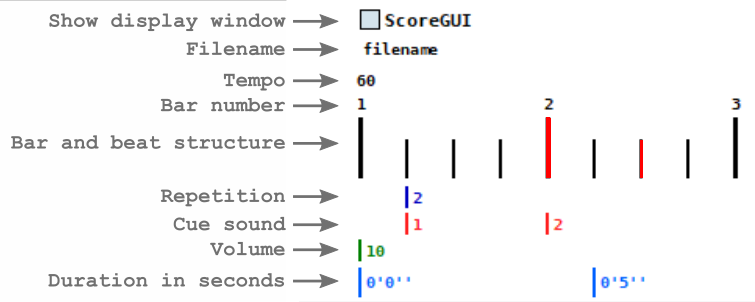
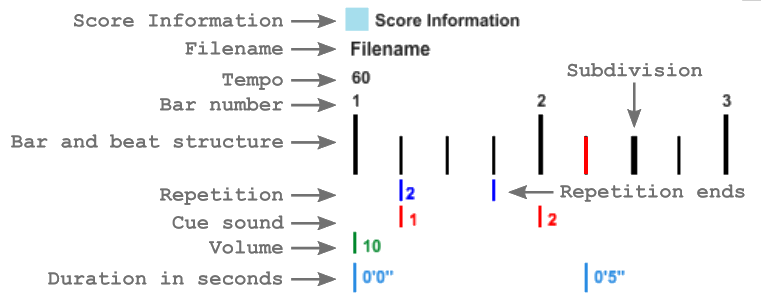
2.4

diff --git a/index.html b/index.html
@@ -34,6 +34,7 @@
           <!--<a class="buttons" href="#repository">Score repository</a><br>-->
           <a class="buttons" href="#license">License</a><br>
           <a class="buttons" href="#tutorial">Tutorial</a><br>
+          <a class="buttons" href="#display">Score Structure Display</a><br>
 		  <a class="buttons" href="#midiexport">Midi Export</a><br>
 		  <a class="buttons" href="#feature">Feature List</a><br>
 		  <a class="buttons" href="#afeature">Advanced Features</a><br>
@@ -70,7 +71,7 @@ An invoice can be written for donations.</p>
 <li>Version 1.8 &ndash; <a href="http://jeffreygavett.com/" target="_blank">Jeff Gavett</a></li>
 <li>Version 2.1 &ndash; <a href="http://asamisimasa.com/" target="_blank">Ensemble asamisimasa</a></li>
 <li>Version 2.2 &ndash; <a href="http://www.stefanprins.be/" target="_blank">Stefan Prins</a></li>
-<li>Version 2.3 &ndash; <a href="https://www.quatuorbozzini.ca/" target="_blank">Quatuor Bozzini</a></li>
+<li>Version 2.4 &ndash; <a href="https://www.quatuorbozzini.ca/" target="_blank">Quatuor Bozzini</a></li>
 </ul>
 
 
@@ -82,17 +83,18 @@ Check the <a href="http://jmmmp.github.io/clicktracker/index-mob.html" target="_
 
 <h3>Click Tracker Desktop Application</h3>
 <p>Use this version in your computer if you don't want to install any extra software, such as Pure Data or Max/MSP.<br>
-You can download it for <a href="https://www.dropbox.com/s/fro9nik0g8p1wlj/Click-Tracker-v2.3-Win.zip?dl=1">Windows</a> or <a href="http://bit.ly/ClickTracker2-3Apple">Apple.</a></p>
-To run the application, unpack the zip file and execute the file <strong>Click-Tracker</strong> file in the Click-Tracker folder. All files and folders must be kept together, or the program won't work correctly.<br>
+You can download it for <a href="https://bit.ly/ClickTracker2-4Win">Windows</a> or <a href="http://bit.ly/ClickTracker2-4Apple">Apple.</a></p>
+To run the application, unpack the zip file and execute the file <strong>Click-Tracker</strong> file in the Click-Tracker folder. To ensure the program works, don't use any spaces or special characters in your path.<br>
 <h4>Warning for Apple users</h4>
 Due to Apple's recent security settings, you'll need to allow the Pure Data and other externals to run on your system, as indicated in <a href="images/Mac-Auth-1.png" target="_blank">this</a>, and <a href="images/Mac-Auth-2.png" target="_blank">this</a> and <a href="images/mac-pd-accept.png" target="_blank">this</a> picture.<br>
 Additionaly, <u>M1 processors aren't supported yet</u> &ndash; you will have to run the program through Rosetta.
 
 <h3>Click Tracker Patch for Pure Data</h3>
-Use <a href="https://bit.ly/ClickTracker2-3">this version</a> if you want to run the Click Tracker on Pure Data (which can be downloaded from <a href="http://msp.ucsd.edu/software.html">here</a>).<br>
+Use <a href="https://bit.ly/ClickTracker2-4">this version</a> if you want to run the Click Tracker on Pure Data (which can be downloaded from <a href="http://msp.ucsd.edu/software.html">here</a>).<br>
+As with the Desktop version, Apple users with M1 processors will have to run Pure Data through Rosetta and allow the necessary security settings.
 
 <h3>Click Tracker Patch for Max/MSP</h3>
-Use this version if you want to run the Click Tracker on Max/MSP (from version 7) on <a href="https://www.dropbox.com/s/qqjv99qugpq85yb/Click-Tracker-v2.3-Max-Win.zip?dl=1">Windows</a> or <a href="https://www.dropbox.com/s/ghahrr9vmoar1ha/Click-Tracker-v2.3-Max-Mac.zip?dl=1">Apple</a> (see above for security settings in Apple hardware).<br>
+Use this version if you want to run the Click Tracker on Max/MSP (from version 7) on <a href="https://bit.ly/ClickTracker2-4MaxWin">Windows</a> or <a href="https://bit.ly/ClickTracker2-4MaxApple">Apple</a> (see above for security settings in Apple hardware).<br>
 <p>If you download any of the patch versions, see the <a href="#afeature">Advanced Features</a> section below on how to integrate it into your patches. The patch runs at a sampling rate of 44100Hz.</p>
 
 
@@ -175,7 +177,7 @@ In the same folder you can find other score excerpts by Stravinsky, Boulez, Stoc
 <h2>
 <a id="tutorial" class="anchor" href="#tutorial" aria-hidden="true"><span aria-hidden="true" class="octicon octicon-link"></span></a>Tutorial</h2>
 <p>This tutorial shows how to prepare a score for the Click Tracker patch, including all its features.<br>
-The Click Tracker reads documents in text format (.txt). They must be saved as text-only &ndash; in case you use Word or any other office software you should pay attention to this.<br>I suggest using a programme such as <a href="https://notepad-plus-plus.org/">Notepad++</a> for Windows or <a href="https://www.barebones.com/products/bbedit/">BBEdit</a> for Apple to edit your track files. See <a href="#syntax-high">below</a> for other resources for these programs.<br>
+The Click Tracker reads documents in text format (.txt). They must be saved as text-only &ndash; in case you use Word or any other office software you should pay attention to this.<br>I suggest using a programme such as <a href="https://notepad-plus-plus.org/">Notepad++</a> for Windows or <a href="https://en.wikipedia.org/wiki/SimpleText">SimpleText</a> for Apple to edit your track files. See <a href="#syntax-high">below</a> for other resources for these programs.<br>
 To reproduce a piece with the Click Tracker you must transcribe the score you want to hear to the format readable by this program &ndash; basically you must write down the metrical structure of the score.<br>
 The score below comes with the program, you can find it under <strong>examples/_score-tutorial.txt</strong>.</p>
 <center><img src="images/score-tutorial-v5a.png"></center>
@@ -357,12 +359,20 @@ vol 100
 1</code></pre>
 <center><img src="images/score-tutorial-8.png" width="573" height="103"></center>
 
+<h4>BAR NUMBER MUTE</h4>
+<p>If some bars are too fast to hear, the voice saying the numbers can be muted with the command "voice 0", or unmuted with "voice 1". Here is a new irregular bar back at MM60 with both commands, which means the bar number won't be heard:</p>
+<pre><code>t 60
+voice 0
+1 b
+1
+voice 1
+.5</code></pre>
+<center><img src="images/score-tutorial-8a.png" width="131" height="124"></center>
+
 <h4>REPETITIONS</h4>
 <p>Repetitions of the same bar can be used a lot in modern music. In case you want to repeat a fragment just use the command "rep x y" where x is the number of beats you want to repeat and y the number of times. Put this command just before the first beat of the passage to be repeated. Again &ndash; x MUST coincide with the actual sum of beats (you can't use 1 as a value for y). The number of the current repetition will be shown in the screen.<br>
-In case you use the "Go to bar" feature (more about that later) to start in the middle of a repetition sequence it won't work. For a repetition sequence to be correctly performed you must play the first note (since the command is before it).<br>
-Here is a new irregular bar back at MM60:</p>
-<pre><code>t 60
-1 b
+In case you use the "Go to bar" feature (more about that later) to start in the middle of a repetition sequence it won't work. For a repetition sequence to be correctly performed you must play the first note (since the command is before it).</p>
+<pre><code>1 b
 1
 .5</code></pre>
 <p>And now the same bar repeated 3 times:</p>
@@ -378,7 +388,7 @@ rep 2.5 4
 1 b
 1
 .5</code></pre>
-<center><img src="images/score-tutorial-9.png" width="493" height="82"></center>
+<center><img src="images/score-tutorial-9.png" width="474" height="67"></center>
 
 <h4>CUES</h4>
 <p>Cues (see below) can be added using the syntax "cue x" &ndash; where x is the cue number.</p>
@@ -410,45 +420,6 @@ As pickup bars aren't exactly repetitions and you must know exactly when the pie
 
 <h4>OTHER FIRST BAR NUMBER</h4>
 <p>With the comand "first x" you can define the number of the first bar to be played &ndash; in case your click track doesn't begin at bar 1.</p>
-
-<!-- <h4>SCORE STRUCTURE DISPLAY</h4>
-(Settings window)
-<p>In "Score" you can see a time-scaled structural display of the events in the opened file. These are arranged according to the following structure:
-<center><img src="images/score-legend.png" width="424" height="170"></center>
-The display is structured with the following functions:</p>
-<ul>
-<li>Show display window - controls display and show event data (see below)</li>
-<li>Filename - shows filename of opened score</li>
-<li>Tempo - Tempo of event (based on quarter note)</li>
-<li>Bar number</li>
-<li>Bar and beat structure:</li>
-<ul>
-<li>Long, thick lines indicate first beat in bar.</li>
-<li>Smaller lines indicate other beats. If thicker, it indicates a metric subdivision.</li>ADICIONAR SUBDIVISAO MÉTRICA À IMAGEM DA PARTITURA
-<li>Distance between lines indicates duration.</li>
-<li>Beats with fermatas are colored red.</li>
-</ul>
-<li>Repetition - shows repetition number</li>
-<li>Cue sound - shows cue sounds</li>
-<li>Volume</li>
-<li>Duration in seconds</li>
-</ul>
-<p>The <strong>display settings</strong> window can control the display settings of the score, and retrieve information on concrete events.</p>
-<center><img src="images/score-control.png" width="383" height="290"></center>
-<ul>
-<li>Show event info - switches more information on/off</li>
-<li>Show bar numbers - frequency of bar numbers</li>
-<li>Time grid labels - frequency of duration labels</li>
-</ul>
-<h5>Interaction</h5>
-The following interaction is possible:
-<ul>
-<li>By clicking on the graphical display of an event, it's information will be shown in the fields below (only in Pure Data)...</li>
-<li>... and it will also set the "go to bar" field to the bar number.</li>
-<li>xxx</li>
-</ul>
-- display of playback line
- -->
 
 <h4>BEAT COUNTING DIRECTION</h4>
 (Settings window)
@@ -549,6 +520,7 @@ In the <strong>Settings</strong> window:<br>
 <strong>fermata 0/1</strong> &ndash; Turns fermata playback on/off &ndash; E.g. fermata 1<br>
 <strong>pickup $1</strong> &ndash; pickup bar repeats the first bar $1 times (bar numbers decrease from $1+1 to 1) &ndash; E.g. pickup 2<br>
 <strong>subdiv 0/1</strong> &ndash; Turns playback of metric subdivisions on/off. &ndash; E.g. subdiv 1<br>
+<strong>voice 0/1</strong> &ndash; Turns bar number mute on/off &ndash; E.g. voice 1<br>
 <strong>vol $1</strong> &ndash; volume between 0 and 10 &ndash; E.g. vol 8<br>
 <strong>par&ensp;cl/clst&ensp;english/deutsch/espanol/portugues</strong> &ndash; playback parameters<br>
 <strong>direction up/down</strong> &ndash; changes beat counting direction up or downwards. Default is upwards.<br>
@@ -572,6 +544,37 @@ In the <strong>Settings</strong> window:<br>
 <strong>shift+l</strong> &ndash; turn Loop to on/off</p>
 
 See the <a href="#afeature">Advanced Features</a> section for details on other features.
+
+
+<h2><a id="display" class="anchor" href="#display" aria-hidden="true"><span aria-hidden="true" class="octicon octicon-link"></span></a>Score Structure Display</h2>
+<p>When clicking in the "Score" button you can see a time-scaled display of the events in the current file (this feature will not be available on mobile plattforms). These are arranged according to the following structure:
+<center><img src="images/score-legend.png" width="532" height="210"></center>
+The display is structured with the following functions:</p>
+<ul>
+<li>Score information - Open window to show event data (see below)</li>
+<li>Filename - Filename of opened score</li>
+<li>Tempo - Tempo of event (based on quarter note)</li>
+<li>Bar number</li>
+<li>Bar and beat structure:</li>
+<ul>
+<li>Long, thick lines indicate first beat in bar.</li>
+<li>Smaller lines indicate other beats. If thicker, it indicates a metric subdivision.</li>
+<li>Distance between lines indicates duration, adjusted for length.</li>
+<li>Beats with fermatas are colored red.</li>
+</ul>
+<li>Repetition:</li>
+<ul>
+<li>Shows repetition starting point and number.</li>
+<li>A blue line with no number shows the end of the last repetition.</li>
+</ul>
+<li>Cue sound - shows cue sounds</li>
+<li>Volume</li>
+<li>Duration in seconds</li>
+</ul>
+<p>In the <strong>score information</strong> window you can retrieve information on concrete events.</p>
+<center><img src="images/score-control.png" width="268" height="209"></center>
+<p>When an event is clicked, the information is read in this window, and sets up the Go to Bar field.</p>
+
 
 <h2>
 <a id="midiexport" class="anchor" href="#midiexport" aria-hidden="true"><span aria-hidden="true" class="octicon octicon-link"></span></a>MIDI Export</h2>
